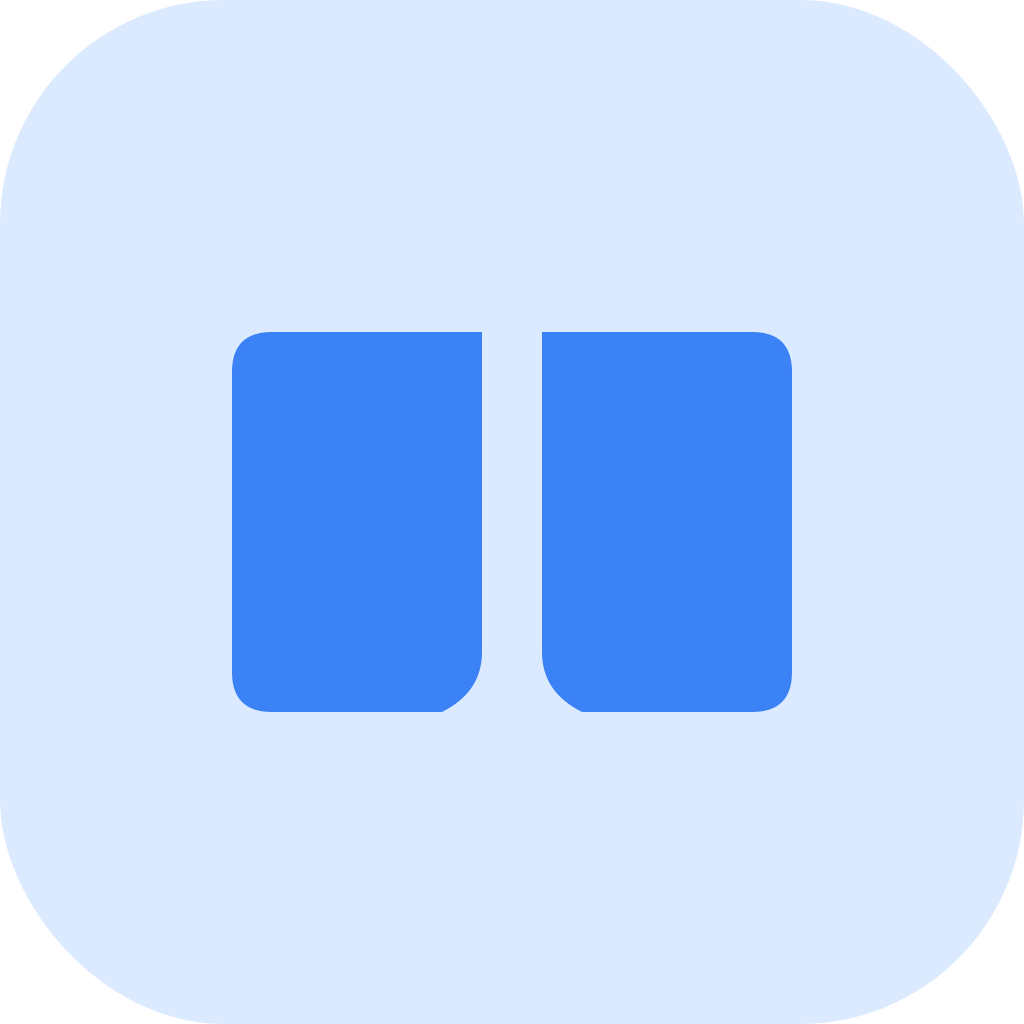
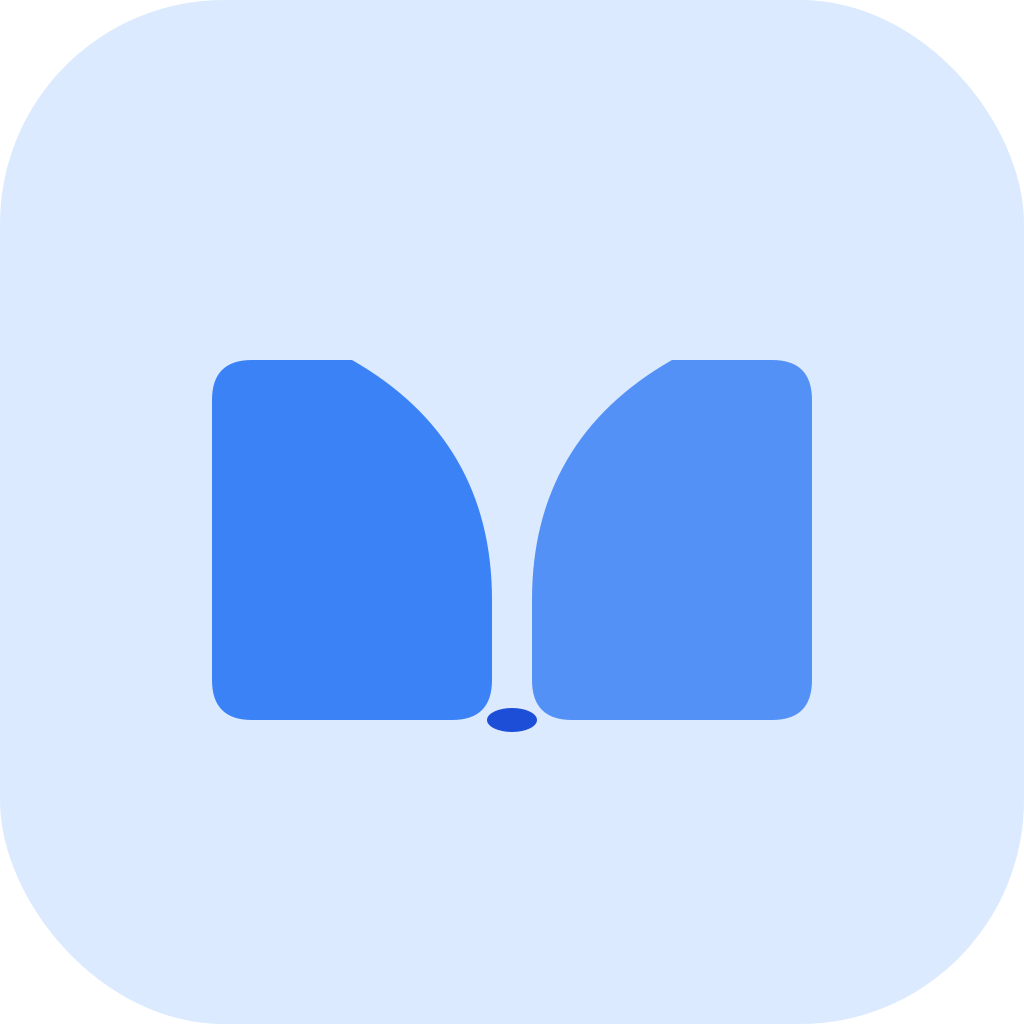
auto-commit for 35230591-3719-4439-b35d-5240336f834b

Changed region(s): [[0.1875, 0.3125, 0.8125, 0.7188]]

diff --git a/apps/mobile/icon-preview.html b/apps/mobile/icon-preview.html
@@ -1,0 +1,93 @@
+<!DOCTYPE html>
+<html>
+<head>
+    <title>Aperçu Icône MyStudyPlanner</title>
+    <style>
+        body {
+            font-family: -apple-system, BlinkMacSystemFont, 'Segoe UI', Roboto, sans-serif;
+            background: linear-gradient(135deg, #667eea 0%, #764ba2 100%);
+            min-height: 100vh;
+            display: flex;
+            flex-direction: column;
+            align-items: center;
+            justify-content: center;
+            margin: 0;
+            padding: 20px;
+        }
+        h1 {
+            color: white;
+            margin-bottom: 30px;
+            text-shadow: 0 2px 4px rgba(0,0,0,0.2);
+        }
+        .preview-container {
+            display: flex;
+            gap: 40px;
+            flex-wrap: wrap;
+            justify-content: center;
+        }
+        .preview-box {
+            background: white;
+            border-radius: 20px;
+            padding: 30px;
+            box-shadow: 0 10px 40px rgba(0,0,0,0.2);
+            text-align: center;
+        }
+        .preview-box h3 {
+            margin: 0 0 20px 0;
+            color: #333;
+        }
+        .icon-wrapper {
+            display: flex;
+            align-items: center;
+            justify-content: center;
+            gap: 20px;
+        }
+        .icon-size {
+            text-align: center;
+        }
+        .icon-size img {
+            border-radius: 22%;
+            box-shadow: 0 4px 15px rgba(0,0,0,0.15);
+        }
+        .icon-size p {
+            margin-top: 10px;
+            color: #666;
+            font-size: 14px;
+        }
+        .description {
+            color: white;
+            margin-top: 30px;
+            text-align: center;
+            max-width: 500px;
+        }
+    </style>
+</head>
+<body>
+    <h1>🎨 Aperçu de l'icône MyStudyPlanner</h1>
+    
+    <div class="preview-container">
+        <div class="preview-box">
+            <h3>Icône de l'application</h3>
+            <div class="icon-wrapper">
+                <div class="icon-size">
+                    <img src="/apps/mobile/assets/images/icon_preview.png" width="256" height="256" alt="Icon 256px">
+                    <p>256x256</p>
+                </div>
+                <div class="icon-size">
+                    <img src="/apps/mobile/assets/images/icon_preview.png" width="128" height="128" alt="Icon 128px">
+                    <p>128x128</p>
+                </div>
+                <div class="icon-size">
+                    <img src="/apps/mobile/assets/images/icon_preview.png" width="64" height="64" alt="Icon 64px">
+                    <p>64x64</p>
+                </div>
+            </div>
+        </div>
+    </div>
+    
+    <div class="description">
+        <p><strong>Design :</strong> Livre ouvert vers le haut (comme en lecture)</p>
+        <p><strong>Couleurs :</strong> Livre bleu (#3B82F6) sur fond bleu pâle (#DBEAFE)</p>
+    </div>
+</body>
+</html>

diff --git a/apps/mobile/app/admin.tsx b/apps/mobile/app/admin.tsx
@@ -10,6 +10,7 @@ import {
   ActivityIndicator,
   Alert,
   Platform,
+  KeyboardAvoidingView,
 } from 'react-native';
 import { SafeAreaView } from 'react-native-safe-area-context';
 import { Ionicons } from '@expo/vector-icons';
@@ -808,7 +809,10 @@ export default function AdminScreen() {
 
       {/* Course Create/Edit Modal */}
       <Modal visible={showCourseModal} transparent animationType="fade">
-        <View style={styles.modalOverlay}>
+        <KeyboardAvoidingView 
+          behavior={Platform.OS === 'ios' ? 'padding' : 'height'}
+          style={styles.modalOverlay}
+        >
           <View style={styles.modalContent}>
             <View style={styles.modalHeader}>
               <Text style={styles.modalTitle}>
@@ -898,7 +902,7 @@ export default function AdminScreen() {
               </TouchableOpacity>
             </View>
           </View>
-        </View>
+        </KeyboardAvoidingView>
       </Modal>
     </SafeAreaView>
   );
